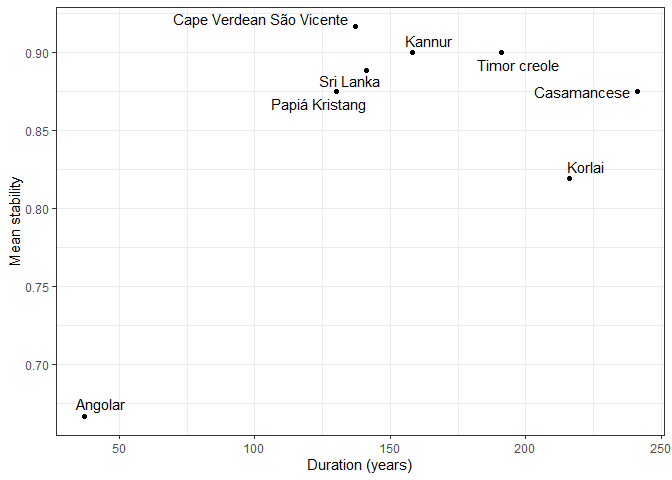
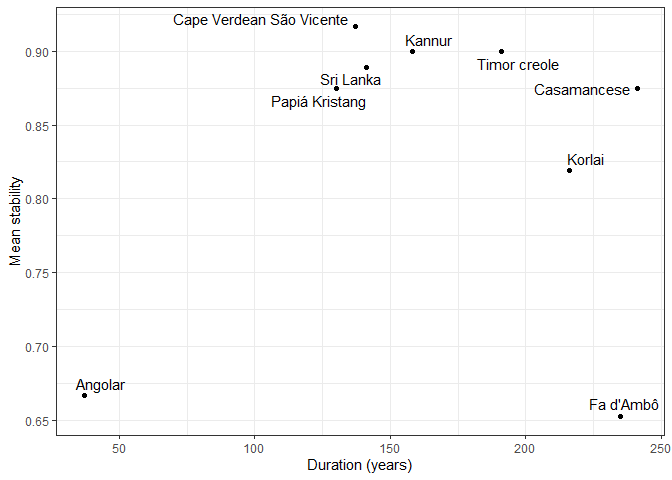
correction in duration of Fa D Ambo

diff --git a/README.md b/README.md
@@ -1,8 +1,8 @@
 Supplementary materials for: Consonant stability in Portuguese-based
 creoles
 ================
-Carlos Silva, Steven Moran and Nicholas A. Lester
-(09 setembro, 2023)
+Carlos Silva and Steven Moran
+(22 outubro, 2023)
 
 - [1 Overview](#1-overview)
 - [2 Creole stability](#2-creole-stability)
@@ -46,6 +46,11 @@ library(lmerTest)
 library(mgcv)
 library(PMCMRplus)
 library(ggpubr)
+```
+
+    ## Warning: package 'ggpubr' was built under R version 4.3.1
+
+``` r
 library(rstatix)
 library(stats)
 library(prabclus)
@@ -238,21 +243,21 @@ summary(m)
     ##     data = creole_stability)
     ## 
     ## Residuals:
-    ##      Min       1Q   Median       3Q      Max 
-    ## -0.20118 -0.02286  0.01146  0.05202  0.11796 
+    ##       Min        1Q    Median        3Q       Max 
+    ## -0.153522 -0.031982  0.009208  0.038949  0.140726 
     ## 
     ## Coefficients:
     ##                                     Estimate Std. Error t value Pr(>|t|)    
-    ## (Intercept)                        8.686e-01  6.762e-02  12.845  1.7e-09 ***
-    ## duration                           6.236e-05  2.314e-04   0.269    0.791    
-    ## ContactConditionsSlavery          -9.622e-02  9.367e-02  -1.027    0.321    
-    ## duration:ContactConditionsSlavery  1.295e-04  2.809e-04   0.461    0.651    
+    ## (Intercept)                        8.686e-01  6.167e-02  14.086  4.7e-10 ***
+    ## duration                           6.236e-05  2.110e-04   0.296    0.772    
+    ## ContactConditionsSlavery          -1.351e-01  8.305e-02  -1.627    0.125    
+    ## duration:ContactConditionsSlavery  2.474e-04  2.541e-04   0.974    0.346    
     ## ---
     ## Signif. codes:  0 '***' 0.001 '**' 0.01 '*' 0.05 '.' 0.1 ' ' 1
     ## 
-    ## Residual standard error: 0.08308 on 15 degrees of freedom
-    ## Multiple R-squared:  0.1492, Adjusted R-squared:  -0.02095 
-    ## F-statistic: 0.8769 on 3 and 15 DF,  p-value: 0.4751
+    ## Residual standard error: 0.07576 on 15 degrees of freedom
+    ## Multiple R-squared:  0.2925, Adjusted R-squared:  0.151 
+    ## F-statistic: 2.067 on 3 and 15 DF,  p-value: 0.1477
 
 ``` r
 ggplot(creole_stability, aes(x = duration, y = MeanStability, 
@@ -306,18 +311,18 @@ summary(msd)
     ## 
     ## Residuals:
     ##      Min       1Q   Median       3Q      Max 
-    ## -0.21701 -0.01214  0.03417  0.04673  0.07143 
+    ## -0.19440 -0.01713  0.02677  0.05092  0.08640 
     ## 
     ## Coefficients:
     ##              Estimate Std. Error t value Pr(>|t|)    
-    ## (Intercept) 8.336e-01  4.471e-02  18.644  9.4e-13 ***
-    ## duration    8.525e-05  1.231e-04   0.692    0.498    
+    ## (Intercept) 0.8066224  0.0417628  19.314 5.29e-13 ***
+    ## duration    0.0001726  0.0001180   1.463    0.162    
     ## ---
     ## Signif. codes:  0 '***' 0.001 '**' 0.01 '*' 0.05 '.' 0.1 ' ' 1
     ## 
-    ## Residual standard error: 0.08344 on 17 degrees of freedom
-    ## Multiple R-squared:  0.02742,    Adjusted R-squared:  -0.02979 
-    ## F-statistic: 0.4793 on 1 and 17 DF,  p-value: 0.4981
+    ## Residual standard error: 0.07974 on 17 degrees of freedom
+    ## Multiple R-squared:  0.1118, Adjusted R-squared:  0.05953 
+    ## F-statistic: 2.139 on 1 and 17 DF,  p-value: 0.1618
 
 However, there does seem to be two groups of languages – ones that
 belong to “long duration” (\>= 400 years) and those that below to “short
@@ -384,20 +389,20 @@ summary(msd)
     ## 
     ## Residuals:
     ##      Min       1Q   Median       3Q      Max 
-    ## -0.21021 -0.04532  0.04038  0.04576  0.07658 
+    ## -0.19540 -0.01408  0.01558  0.05578  0.09017 
     ## 
     ## Coefficients:
     ##                                Estimate Std. Error t value Pr(>|t|)   
-    ## (Intercept)                   0.8153751  0.2450280   3.328  0.00459 **
-    ## duration                      0.0001120  0.0005379   0.208  0.83783   
-    ## duration_groupshort          -0.0822049  0.2590038  -0.317  0.75532   
-    ## duration:duration_groupshort  0.0006684  0.0007362   0.908  0.37829   
+    ## (Intercept)                   0.9645090  0.2525341   3.819  0.00168 **
+    ## duration                     -0.0001690  0.0005509  -0.307  0.76325   
+    ## duration_groupshort          -0.1683250  0.2652407  -0.635  0.53524   
+    ## duration:duration_groupshort  0.0003902  0.0007185   0.543  0.59501   
     ## ---
     ## Signif. codes:  0 '***' 0.001 '**' 0.01 '*' 0.05 '.' 0.1 ' ' 1
     ## 
-    ## Residual standard error: 0.08331 on 15 degrees of freedom
-    ## Multiple R-squared:  0.1445, Adjusted R-squared:  -0.02656 
-    ## F-statistic: 0.8448 on 3 and 15 DF,  p-value: 0.4906
+    ## Residual standard error: 0.08375 on 15 degrees of freedom
+    ## Multiple R-squared:  0.1354, Adjusted R-squared:  -0.03753 
+    ## F-statistic: 0.783 on 3 and 15 DF,  p-value: 0.5218
 
 ``` r
 ggplot(creole_stability, aes(x = duration, y = MeanStability, color = duration_group)) +
@@ -445,23 +450,23 @@ summary(msd.gam)
     ##     by = duration_group, k = 3)
     ## 
     ## Parametric coefficients:
-    ##                     Estimate Std. Error t value Pr(>|t|)  
-    ## (Intercept)           2.1902     0.7763   2.821   0.0140 *
-    ## duration_groupshort  -1.9481     0.8695  -2.241   0.0425 *
+    ##                     Estimate Std. Error t value Pr(>|t|)   
+    ## (Intercept)           1.0073     0.2965   3.397  0.00434 **
+    ## duration_groupshort  -1.2305     0.4398  -2.798  0.01424 * 
     ## ---
     ## Signif. codes:  0 '***' 0.001 '**' 0.01 '*' 0.05 '.' 0.1 ' ' 1
     ## 
     ## Approximate significance of smooth terms:
     ##                                    edf Ref.df     F p-value  
-    ## s(duration)                     0.6667 0.6667 6.264  0.0618 .
-    ## s(duration):duration_grouplong  1.4159 1.6038 1.375  0.1693  
-    ## s(duration):duration_groupshort 1.4575 1.6229 2.237  0.1032  
+    ## s(duration)                     0.6667 0.6667 6.605  0.0545 .
+    ## s(duration):duration_grouplong  0.7592 0.8431 0.895  0.3997  
+    ## s(duration):duration_groupshort 1.5840 1.6598 8.549  0.0288 *
     ## ---
     ## Signif. codes:  0 '***' 0.001 '**' 0.01 '*' 0.05 '.' 0.1 ' ' 1
     ## 
     ## Rank: 7/8
-    ## R-sq.(adj) =  0.293   Deviance explained = 47.1%
-    ## GCV = 0.0067504  Scale est. = 0.0047821  n = 19
+    ## R-sq.(adj) =  0.419   Deviance explained = 54.8%
+    ## GCV = 0.0053365  Scale est. = 0.0039294  n = 19
 
 ``` r
 plot(msd.gam, all.terms = T, shade = T, pages = 1)
@@ -988,7 +993,15 @@ table(mod.db$categorical_stability)
 # Place stability
 cat.mod.place <- glmer(PlaceStability ~ log(duration) + (1 | CreolePhoneme), 
                        data = mod.db, family = "binomial")
+```
 
+    ## Warning in checkConv(attr(opt, "derivs"), opt$par, ctrl = control$checkConv, :
+    ## Model failed to converge with max|grad| = 0.0989796 (tol = 0.002, component 1)
+
+    ## Warning in checkConv(attr(opt, "derivs"), opt$par, ctrl = control$checkConv, : Model is nearly unidentifiable: very large eigenvalue
+    ##  - Rescale variables?
+
+``` r
 summary(cat.mod.place)
 ```
 
@@ -1003,23 +1016,27 @@ summary(cat.mod.place)
     ## 
     ## Scaled residuals: 
     ##     Min      1Q  Median      3Q     Max 
-    ## -6.3810  0.0327  0.0341  0.1593  2.3669 
+    ## -6.4584  0.0282  0.0300  0.1610  2.4148 
     ## 
     ## Random effects:
     ##  Groups        Name        Variance Std.Dev.
-    ##  CreolePhoneme (Intercept) 34.8     5.899   
+    ##  CreolePhoneme (Intercept) 40.56    6.369   
     ## Number of obs: 685, groups:  CreolePhoneme, 34
     ## 
     ## Fixed effects:
-    ##               Estimate Std. Error z value Pr(>|z|)  
-    ## (Intercept)     5.5541     3.0094   1.846   0.0649 .
-    ## log(duration)  -0.0260     0.2695  -0.096   0.9231  
+    ##                Estimate Std. Error z value Pr(>|z|)    
+    ## (Intercept)   5.4884795  0.0007144 7683.01   <2e-16 ***
+    ## log(duration) 0.0643701  0.0007145   90.09   <2e-16 ***
     ## ---
     ## Signif. codes:  0 '***' 0.001 '**' 0.01 '*' 0.05 '.' 0.1 ' ' 1
     ## 
     ## Correlation of Fixed Effects:
     ##             (Intr)
-    ## log(duratn) -0.560
+    ## log(duratn) 0.000 
+    ## optimizer (Nelder_Mead) convergence code: 0 (OK)
+    ## Model failed to converge with max|grad| = 0.0989796 (tol = 0.002, component 1)
+    ## Model is nearly unidentifiable: very large eigenvalue
+    ##  - Rescale variables?
 
 ``` r
 # Manner stability
@@ -1036,27 +1053,27 @@ summary(cat.mod.manner)
     ##    Data: mod.db
     ## 
     ##      AIC      BIC   logLik deviance df.resid 
-    ##    258.1    271.7   -126.0    252.1      682 
+    ##    255.8    269.4   -124.9    249.8      682 
     ## 
     ## Scaled residuals: 
     ##     Min      1Q  Median      3Q     Max 
-    ## -6.8056  0.0038  0.0044  0.1764  1.0106 
+    ## -6.2314  0.0036  0.0044  0.1687  1.2034 
     ## 
     ## Random effects:
     ##  Groups        Name        Variance Std.Dev.
-    ##  CreolePhoneme (Intercept) 406.8    20.17   
+    ##  CreolePhoneme (Intercept) 405.7    20.14   
     ## Number of obs: 685, groups:  CreolePhoneme, 34
     ## 
     ## Fixed effects:
-    ##               Estimate Std. Error z value Pr(>|z|)    
-    ## (Intercept)     8.6821     2.5407   3.417 0.000633 ***
-    ## log(duration)   0.3547     0.2668   1.329 0.183708    
+    ##               Estimate Std. Error z value Pr(>|z|)   
+    ## (Intercept)     7.6512     2.5212   3.035  0.00241 **
+    ## log(duration)   0.5459     0.2683   2.035  0.04185 * 
     ## ---
     ## Signif. codes:  0 '***' 0.001 '**' 0.01 '*' 0.05 '.' 0.1 ' ' 1
     ## 
     ## Correlation of Fixed Effects:
     ##             (Intr)
-    ## log(duratn) -0.576
+    ## log(duratn) -0.565
 
 ``` r
 # Duration group
@@ -1079,11 +1096,11 @@ summary(cat.mod.group)
     ##    Data: mod.db
     ## 
     ##      AIC      BIC   logLik deviance df.resid 
-    ##    934.3    952.4   -463.2    926.3      681 
+    ##    944.6    962.7   -468.3    936.6      681 
     ## 
     ## Scaled residuals: 
-    ##     Min      1Q  Median      3Q     Max 
-    ## -1.0869 -0.8359 -0.8359  1.1963  1.5223 
+    ##    Min     1Q Median     3Q    Max 
+    ## -1.342 -0.900 -0.900  1.111  1.276 
     ## 
     ## Random effects:
     ##  Groups        Name        Variance Std.Dev.
@@ -1091,17 +1108,17 @@ summary(cat.mod.group)
     ## Number of obs: 685, groups:  CreolePhoneme, 34
     ## 
     ## Fixed effects:
-    ##                 Estimate Std. Error z value Pr(>|z|)  
-    ## (Intercept)      -0.3154     0.2375  -1.328   0.1843  
-    ## PlaceStability    0.4820     0.2935   1.642   0.1006  
-    ## MannerStability  -0.5251     0.2583  -2.033   0.0421 *
+    ##                 Estimate Std. Error z value Pr(>|z|)   
+    ## (Intercept)       0.3120     0.2363   1.321  0.18665   
+    ## PlaceStability    0.2769     0.2897   0.956  0.33922   
+    ## MannerStability  -0.7995     0.2621  -3.050  0.00229 **
     ## ---
     ## Signif. codes:  0 '***' 0.001 '**' 0.01 '*' 0.05 '.' 0.1 ' ' 1
     ## 
     ## Correlation of Fixed Effects:
     ##             (Intr) PlcStb
-    ## PlaceStblty -0.571       
-    ## MannrStblty -0.295 -0.568
+    ## PlaceStblty -0.543       
+    ## MannrStblty -0.326 -0.570
     ## optimizer (bobyqa) convergence code: 0 (OK)
     ## boundary (singular) fit: see help('isSingular')
 
